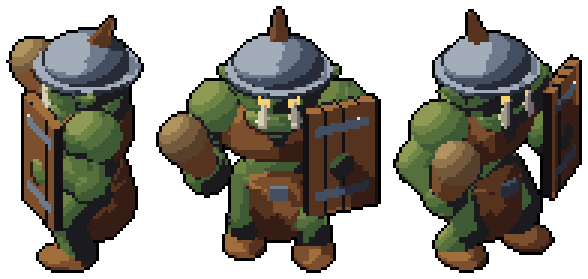
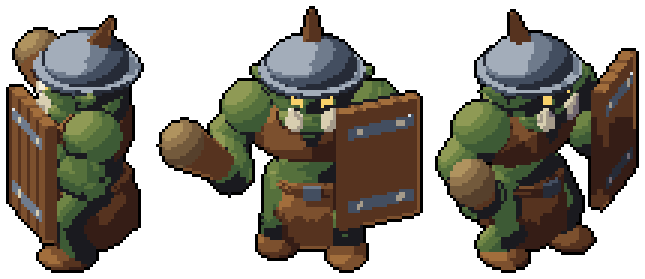
Art B2: review page, progress page, art log for the all-monster pass and seven new monsters
Claude-Session: https://claude.ai/code/session_01QbDoFLJr5rX34eWgCEDPgG

diff --git a/diablo-clone/art/review/b2-passes/index.html b/diablo-clone/art/review/b2-passes/index.html
@@ -1,0 +1,86 @@
+<title>Monster Round B2</title>
+<meta name="claude:viewport-fit-sides" content="cover">
+<link rel="stylesheet" href="https://fonts.googleapis.com/css2?family=Pixelify+Sans:wght@500;700&family=IBM+Plex+Sans:wght@400;600&family=IBM+Plex+Mono:wght@400&display=swap">
+<style>
+/* one dark dungeon look to match the game; each monster: concept + note, then a before/after strip that scrolls sideways on phones */
+:root { --bg:#17120f; --panel:#211a16; --ink:#ece2cf; --dim:#a8987f; --rule:#3a2f27; --ember:#e8902f;
+  --display:'Pixelify Sans','Courier New',monospace; --body:'IBM Plex Sans',system-ui,sans-serif; --mono:'IBM Plex Mono',ui-monospace,monospace; color-scheme: dark; }
+body { background:var(--bg); color:var(--ink); font-family:var(--body); line-height:1.55; margin:0; }
+.wrap { max-width:1180px; margin:0 auto; padding-block:28px 64px; padding-left:max(16px,env(safe-area-inset-left,0px)); padding-right:max(16px,env(safe-area-inset-right,0px)); display:grid; gap:34px; }
+h1 { font-family:var(--display); font-weight:700; font-size:clamp(28px,5vw,44px); line-height:1.1; margin:0; text-wrap:balance; }
+h1 em { font-style:normal; color:var(--ember); }
+.lede { max-width:68ch; color:var(--dim); margin:10px 0 0; } .lede b { color:var(--ink); font-weight:600; }
+.grp { font-family:var(--display); font-size:24px; color:var(--ember); margin:18px 0 0; letter-spacing:.03em; }
+h3 { font-family:var(--display); font-weight:700; font-size:22px; margin:0; }
+section { display:grid; gap:12px; border-top:1px solid var(--rule); padding-top:22px; }
+.head { display:flex; flex-wrap:wrap; align-items:baseline; gap:6px 14px; }
+.tag { font-family:var(--mono); font-size:12px; color:var(--dim); }
+.row { display:grid; grid-template-columns:minmax(0,220px) minmax(0,1fr); gap:18px; align-items:start; }
+@media (max-width:640px) { .row { grid-template-columns:minmax(0,1fr); } .concept { max-width:220px; } }
+.concept { margin:0; background:var(--panel); border:1px solid var(--rule); }
+.concept img { display:block; width:100%; image-rendering:pixelated; }
+.concept.none { padding:14px 0; }
+figcaption { font-family:var(--mono); font-size:11px; color:var(--dim); padding:6px 8px; }
+.note { margin:0; max-width:66ch; }
+.strip { overflow-x:auto; border:1px solid var(--rule); background:#000; }
+.strip img { display:block; max-width:none; width:auto; height:auto; max-height:520px; image-rendering:pixelated; }
+</style>
+<div class="wrap">
+<header>
+<h1>Another pass on every monster, plus seven new ones <em>B2</em></h1>
+<p class="lede"><b>The Brigand Mastiff is gone</b>, as you asked. All 39 remaining monsters got at least 3 more passes, each judged side by side against the best so far in both left/right orders and kept only if it won both. <b>Seven new monsters</b> were built from your concepts (top of the page); they don't spawn yet. Each strip shows <b>before (top) and after</b>, then the silhouette. Nothing else changed: the player heroes and every monster outside each group render exactly as before.</p>
+</header>
+<h2 class="grp">New monsters</h2>
+<section><div class="head"><h3>Cave Bat</h3><span class="tag">cavebat</span></div><div class="row"><figure class="concept"><img src="concepts/cave_bat.png" alt="Concept: Cave Bat"><figcaption>your concept</figcaption></figure><p class="note">NEW. Hovers with its shadow under it, flaps, climbs then dives with claws out, falls flat on death.</p></div><div class="strip"><img loading="lazy" src="new/final-cavebat.png" alt="Cave Bat: before and after"></div></section>
+<section><div class="head"><h3>Bog Toad</h3><span class="tag">bogtoad</span></div><div class="row"><figure class="concept"><img src="concepts/bog_toad.png" alt="Concept: Bog Toad"><figcaption>your concept</figcaption></figure><p class="note">NEW. Warty olive body, orange eyes, a throat that pulses at rest; hops on walk, lashes its tongue, rolls onto its back on death. Throat is ochre (no pale green in the palette).</p></div><div class="strip"><img loading="lazy" src="new/final-bogtoad.png" alt="Bog Toad: before and after"></div></section>
+<section><div class="head"><h3>Restless Dead</h3><span class="tag">restless</span></div><div class="row"><figure class="concept"><img src="concepts/restless_dead.png" alt="Concept: Restless Dead"><figcaption>your concept</figcaption></figure><p class="note">NEW. A shambling corpse in a torn tunic, one arm reaching; drags a foot when it walks, falls forward on death.</p></div><div class="strip"><img loading="lazy" src="new/final-restless.png" alt="Restless Dead: before and after"></div></section>
+<section><div class="head"><h3>Venom Spitter</h3><span class="tag">spitter</span></div><div class="row"><figure class="concept"><img src="concepts/venom_spitter.png" alt="Concept: Venom Spitter"><figcaption>your concept</figcaption></figure><p class="note">NEW. Brown spider with yellow-green venom patches; rears up and spits a green glob (fires the game&#x27;s arrow until a venom shot exists).</p></div><div class="strip"><img loading="lazy" src="spiders/final-spitter.png" alt="Venom Spitter: before and after"></div></section>
+<section><div class="head"><h3>Stoneback Spider</h3><span class="tag">stoneback</span></div><div class="row"><figure class="concept"><img src="concepts/stoneback_spider.png" alt="Concept: Stoneback Spider"><figcaption>your concept</figcaption></figure><p class="note">NEW. Low, heavy, slower; a cracked grey stone shell, orange eyes.</p></div><div class="strip"><img loading="lazy" src="spiders/final-stoneback.png" alt="Stoneback Spider: before and after"></div></section>
+<section><div class="head"><h3>Brood Guard</h3><span class="tag">broodguard</span></div><div class="row"><figure class="concept"><img src="concepts/brood_guard.png" alt="Concept: Brood Guard"><figcaption>your concept</figcaption></figure><p class="note">NEW. Tall on stilt legs with red knees, three red stripes, abdomen cocked up behind.</p></div><div class="strip"><img loading="lazy" src="spiders/final-broodguard.png" alt="Brood Guard: before and after"></div></section>
+<section><div class="head"><h3>Bandit Crossbowman</h3><span class="tag">xbowman</span></div><div class="row"><figure class="concept"><img src="concepts/bandit_crossbowman.png" alt="Concept: Bandit Crossbowman"><figcaption>your concept</figcaption></figure><p class="note">NEW. Blue-steel cap, laced leather jerkin, crossbow shouldered and aimed level when it shoots, bolt case at the hip. Shown beside the Brigand.</p></div><div class="strip"><img loading="lazy" src="misc/final-xbowman.png" alt="Bandit Crossbowman: before and after"></div></section>
+<h2 class="grp">Skeletons</h2>
+<section><div class="head"><h3>Skeleton</h3><span class="tag">skeleton</span></div><div class="row"><figure class="concept"><img src="concepts/skeleton.png" alt="Concept: Skeleton"><figcaption>your concept</figcaption></figure><p class="note">Blue-steel pauldron with an orange boss, round red skull shield, long torn red loincloth, red sash; ribs show.</p></div><div class="strip"><img loading="lazy" src="skeletons/final-skeleton.png" alt="Skeleton: before and after"></div></section>
+<section><div class="head"><h3>Crypt Spearman</h3><span class="tag">spearman</span></div><div class="row"><figure class="concept"><img src="concepts/crypt_spearman.png" alt="Concept: Crypt Spearman"><figcaption>your concept</figcaption></figure><p class="note">Spear held across the body so the head shows from the front; longer navy loincloth.</p></div><div class="strip"><img loading="lazy" src="skeletons/final-spearman.png" alt="Crypt Spearman: before and after"></div></section>
+<section><div class="head"><h3>Bone Axeman</h3><span class="tag">axeman</span></div><div class="row"><figure class="concept"><img src="concepts/bone_axeman.png" alt="Concept: Bone Axeman"><figcaption>your concept</figcaption></figure><p class="note">Axe held diagonally, head at shoulder height; long red cloth front and back.</p></div><div class="strip"><img loading="lazy" src="skeletons/final-axeman.png" alt="Bone Axeman: before and after"></div></section>
+<section><div class="head"><h3>Grave Crossbowman</h3><span class="tag">gravebow</span></div><div class="row"><figure class="concept"><img src="concepts/grave_crossbowman.png" alt="Concept: Grave Crossbowman"><figcaption>your concept</figcaption></figure><p class="note">Bigger leather pauldron with a gold rivet; bolt quiver low on the left thigh.</p></div><div class="strip"><img loading="lazy" src="skeletons/final-gravebow.png" alt="Grave Crossbowman: before and after"></div></section>
+<section><div class="head"><h3>Tomb Guard</h3><span class="tag">tombguard</span></div><div class="row"><figure class="concept"><img src="concepts/tomb_guard.png" alt="Concept: Tomb Guard"><figcaption>your concept</figcaption></figure><p class="note">Thick rolled helm brim, raised so the eyes show; red cloth front and back; bevel on the shield.</p></div><div class="strip"><img loading="lazy" src="skeletons/final-tombguard.png" alt="Tomb Guard: before and after"></div></section>
+<section><div class="head"><h3>Skeleton Archer</h3><span class="tag">archer</span></div><div class="row"><figure class="concept none"><figcaption>no concept: judged on the rubric</figcaption></figure><p class="note">Longer recurved bow held out from the body, back quiver with red fletching, bracer.</p></div><div class="strip"><img loading="lazy" src="skeletons/final-archer.png" alt="Skeleton Archer: before and after"></div></section>
+<section><div class="head"><h3>Burning Dead</h3><span class="tag">burning</span></div><div class="row"><figure class="concept"><img src="concepts/burning_dead.png" alt="Concept: Burning Dead"><figcaption>your concept</figcaption></figure><p class="note">Taller helm flared at the back; bigger flames with red tips.</p></div><div class="strip"><img loading="lazy" src="skeletons/final-burning.png" alt="Burning Dead: before and after"></div></section>
+<section><div class="head"><h3>The Lich</h3><span class="tag">lich</span></div><div class="row"><figure class="concept none"><figcaption>no concept: judged on the rubric</figcaption></figure><p class="note">Bell-shaped robe with ragged tails; dark hood behind the skull.</p></div><div class="strip"><img loading="lazy" src="skeletons/final-lich.png" alt="The Lich: before and after"></div></section>
+<section><div class="head"><h3>Skeleton King</h3><span class="tag">skelking</span></div><div class="row"><figure class="concept none"><figcaption>no concept: judged on the rubric</figcaption></figure><p class="note">Draped red cloak with gold hem and fur collar, broad gold-hilted greatsword; the cloak lies flat in death.</p></div><div class="strip"><img loading="lazy" src="skeletons/final-skelking.png" alt="Skeleton King: before and after"></div></section>
+<h2 class="grp">Imps and goblins</h2>
+<section><div class="head"><h3>Fallen One</h3><span class="tag">fallen</span></div><div class="row"><figure class="concept"><img src="concepts/fallen_spearling.png" alt="Concept: Fallen One"><figcaption>your concept</figcaption></figure><p class="note">Purple bat ears swept back, pale hooves, broader loincloth, bigger head and eyes.</p></div><div class="strip"><img loading="lazy" src="fallen/final-fallen.png" alt="Fallen One: before and after"></div></section>
+<section><div class="head"><h3>Fallen Knifer</h3><span class="tag">knifer</span></div><div class="row"><figure class="concept"><img src="concepts/fallen_knifer.png" alt="Concept: Fallen Knifer"><figcaption>your concept</figcaption></figure><p class="note">Same ear, hoof and head changes.</p></div><div class="strip"><img loading="lazy" src="fallen/final-knifer.png" alt="Fallen Knifer: before and after"></div></section>
+<section><div class="head"><h3>Fallen Slinger</h3><span class="tag">slinger</span></div><div class="row"><figure class="concept"><img src="concepts/fallen_slinger.png" alt="Concept: Fallen Slinger"><figcaption>your concept</figcaption></figure><p class="note">Same ear, hoof and head changes.</p></div><div class="strip"><img loading="lazy" src="fallen/final-slinger.png" alt="Fallen Slinger: before and after"></div></section>
+<section><div class="head"><h3>Fallen Shaman</h3><span class="tag">shaman</span></div><div class="row"><figure class="concept"><img src="concepts/ember_acolyte.png" alt="Concept: Fallen Shaman"><figcaption>your concept</figcaption></figure><p class="note">Hood set back so more of the red face shows; pale hooves.</p></div><div class="strip"><img loading="lazy" src="fallen/final-shaman.png" alt="Fallen Shaman: before and after"></div></section>
+<section><div class="head"><h3>Goblin</h3><span class="tag">goblin</span></div><div class="row"><figure class="concept"><img src="concepts/goblin.png" alt="Concept: Goblin"><figcaption>your concept</figcaption></figure><p class="note">Leaner, open leather vest, steel dagger instead of the spear, long nose, rounder cap, ears swept back.</p></div><div class="strip"><img loading="lazy" src="fallen/final-goblin.png" alt="Goblin: before and after"></div></section>
+<section><div class="head"><h3>Goblin Chieftain</h3><span class="tag">gchief</span></div><div class="row"><figure class="concept none"><figcaption>no concept: judged on the rubric</figcaption></figure><p class="note">Narrower crown so the face shows, fang necklace, vest.</p></div><div class="strip"><img loading="lazy" src="fallen/final-gchief.png" alt="Goblin Chieftain: before and after"></div></section>
+<section><div class="head"><h3>Goblin Shaman</h3><span class="tag">gshaman</span></div><div class="row"><figure class="concept none"><figcaption>no concept: judged on the rubric</figcaption></figure><p class="note">Forked staff around a bigger orb, leather cap.</p></div><div class="strip"><img loading="lazy" src="fallen/final-gshaman.png" alt="Goblin Shaman: before and after"></div></section>
+<section><div class="head"><h3>Treasure Goblin</h3><span class="tag">treasure</span></div><div class="row"><figure class="concept none"><figcaption>no concept: judged on the rubric</figcaption></figure><p class="note">Fatter sack tied at the neck, bigger gold heap.</p></div><div class="strip"><img loading="lazy" src="fallen/final-treasure.png" alt="Treasure Goblin: before and after"></div></section>
+<section><div class="head"><h3>Digger</h3><span class="tag">digger</span></div><div class="row"><figure class="concept none"><figcaption>no concept: judged on the rubric</figcaption></figure><p class="note">Pick resting on the shoulder, light steel cap with a candle, pale snout.</p></div><div class="strip"><img loading="lazy" src="fallen/final-digger.png" alt="Digger: before and after"></div></section>
+<h2 class="grp">Hounds</h2>
+<section><div class="head"><h3>Wolf</h3><span class="tag">wolf</span></div><div class="row"><figure class="concept"><img src="concepts/grey_pack_hunter.png" alt="Concept: Wolf"><figcaption>your concept</figcaption></figure><p class="note">Bigger pointed ears, black nose, pale cheek, bigger head.</p></div><div class="strip"><img loading="lazy" src="hounds/final-wolf.png" alt="Wolf: before and after"></div></section>
+<section><div class="head"><h3>The Alpha</h3><span class="tag">alpha</span></div><div class="row"><figure class="concept none"><figcaption>no concept: judged on the rubric</figcaption></figure><p class="note">Darker coat, silver crest of raised fur, bushy pale-tipped tail.</p></div><div class="strip"><img loading="lazy" src="hounds/final-alpha.png" alt="The Alpha: before and after"></div></section>
+<section><div class="head"><h3>Bone Hound</h3><span class="tag">hound</span></div><div class="row"><figure class="concept"><img src="concepts/bone_hound.png" alt="Concept: Bone Hound"><figcaption>your concept</figcaption></figure><p class="note">Wide crescent horns sweeping back, bigger skull, cream toes, black nose.</p></div><div class="strip"><img loading="lazy" src="hounds/final-hound.png" alt="Bone Hound: before and after"></div></section>
+<section><div class="head"><h3>Hell Hound</h3><span class="tag">ghoulhound</span></div><div class="row"><figure class="concept"><img src="concepts/ember_hound.png" alt="Concept: Hell Hound"><figcaption>your concept</figcaption></figure><p class="note">Same horn and head changes as the Bone Hound.</p></div><div class="strip"><img loading="lazy" src="hounds/final-ghoulhound.png" alt="Hell Hound: before and after"></div></section>
+<section><div class="head"><h3>Dire Bear</h3><span class="tag">bear</span></div><div class="row"><figure class="concept none"><figcaption>no concept: judged on the rubric</figcaption></figure><p class="note">Shoulder hump, shorter muzzle, thicker legs, round ears, dark lower legs.</p></div><div class="strip"><img loading="lazy" src="hounds/final-bear.png" alt="Dire Bear: before and after"></div></section>
+<section><div class="head"><h3>Boar</h3><span class="tag">boar</span></div><div class="row"><figure class="concept none"><figcaption>no concept: judged on the rubric</figcaption></figure><p class="note">Barrel body, spiky bristle crest, flat snout, big upturned tusks, dark legs.</p></div><div class="strip"><img loading="lazy" src="hounds/final-boar.png" alt="Boar: before and after"></div></section>
+<h2 class="grp">Ogres and treant</h2>
+<section><div class="head"><h3>Ogre Clubber</h3><span class="tag">oclubber</span></div><div class="row"><figure class="concept"><img src="concepts/ogre_clubber.png" alt="Concept: Ogre Clubber"><figcaption>your concept</figcaption></figure><p class="note">Short splayed tusks, arms out from the body, club angled up like a log, belt band, torn skirt.</p></div><div class="strip"><img loading="lazy" src="ogres-treant/final-oclubber.png" alt="Ogre Clubber: before and after"></div></section>
+<section><div class="head"><h3>Ogre Rockthrower</h3><span class="tag">orockthrower</span></div><div class="row"><figure class="concept"><img src="concepts/ogre_rockthrower.png" alt="Concept: Ogre Rockthrower"><figcaption>your concept</figcaption></figure><p class="note">Rock held clear of the head, bigger stone bag, belt band.</p></div><div class="strip"><img loading="lazy" src="ogres-treant/final-orockthrower.png" alt="Ogre Rockthrower: before and after"></div></section>
+<section><div class="head"><h3>Ogre Shieldbearer</h3><span class="tag">oshield</span></div><div class="row"><figure class="concept"><img src="concepts/ogre_shieldbearer.png" alt="Concept: Ogre Shieldbearer"><figcaption>your concept</figcaption></figure><p class="note">Bigger four-plank shield with riveted bands, moved off the fist.</p></div><div class="strip"><img loading="lazy" src="ogres-treant/final-oshield.png" alt="Ogre Shieldbearer: before and after"></div></section>
+<section><div class="head"><h3>Ogre Enforcer</h3><span class="tag">oenforcer</span></div><div class="row"><figure class="concept"><img src="concepts/ogre_enforcer.png" alt="Concept: Ogre Enforcer"><figcaption>your concept</figcaption></figure><p class="note">Steel cleaver that keeps its color turned away, belt and skirt, shoulder blades.</p></div><div class="strip"><img loading="lazy" src="ogres-treant/final-oenforcer.png" alt="Ogre Enforcer: before and after"></div></section>
+<section><div class="head"><h3>Ogre Warlord</h3><span class="tag">warlord</span></div><div class="row"><figure class="concept none"><figcaption>no concept: judged on the rubric</figcaption></figure><p class="note">Crude gold crown, pale steel club spikes, leather skirt filling the gap between the legs.</p></div><div class="strip"><img loading="lazy" src="ogres-treant/final-warlord.png" alt="Ogre Warlord: before and after"></div></section>
+<section><div class="head"><h3>Treant Elder</h3><span class="tag">treant</span></div><div class="row"><figure class="concept"><img src="concepts/treant_elder.png" alt="Concept: Treant Elder"><figcaption>your concept</figcaption></figure><p class="note">Crown of four lobes lifted clear of the face, bigger eyes, longer arms.</p></div><div class="strip"><img loading="lazy" src="ogres-treant/final-treant.png" alt="Treant Elder: before and after"></div></section>
+<h2 class="grp">Spiders</h2>
+<section><div class="head"><h3>Cave Spider</h3><span class="tag">spider</span></div><div class="row"><figure class="concept"><img src="concepts/cave_skitter.png" alt="Concept: Cave Spider"><figcaption>your concept</figcaption></figure><p class="note">Pale spots instead of the skull mark, white fangs, bigger red eyes, red feet, rounder raised abdomen.</p></div><div class="strip"><img loading="lazy" src="spiders/final-spider.png" alt="Cave Spider: before and after"></div></section>
+<section><div class="head"><h3>Broodmother</h3><span class="tag">broodmother</span></div><div class="row"><figure class="concept none"><figcaption>no concept: judged on the rubric</figcaption></figure><p class="note">Small clutch of egg sacs at the back, red spur on every knee.</p></div><div class="strip"><img loading="lazy" src="spiders/final-broodmother.png" alt="Broodmother: before and after"></div></section>
+<h2 class="grp">Mushrooms, slimes, wraith, bandits</h2>
+<section><div class="head"><h3>Shroomling</h3><span class="tag">shroom</span></div><div class="row"><figure class="concept none"><figcaption>no concept: judged on the rubric</figcaption></figure><p class="note">Broad spotted dome over a pale gill skirt, tipped back so the face and eyes show.</p></div><div class="strip"><img loading="lazy" src="misc/final-shroom.png" alt="Shroomling: before and after"></div></section>
+<section><div class="head"><h3>Sporecap</h3><span class="tag">sporecap</span></div><div class="row"><figure class="concept none"><figcaption>no concept: judged on the rubric</figcaption></figure><p class="note">Same cap and face as the Shroomling.</p></div><div class="strip"><img loading="lazy" src="misc/final-sporecap.png" alt="Sporecap: before and after"></div></section>
+<section><div class="head"><h3>Slime</h3><span class="tag">slime</span></div><div class="row"><figure class="concept none"><figcaption>no concept: judged on the rubric</figcaption></figure><p class="note">Gumdrop shape on a puddle skirt, big eyes, a mouth that opens on the bite.</p></div><div class="strip"><img loading="lazy" src="misc/final-slime.png" alt="Slime: before and after"></div></section>
+<section><div class="head"><h3>Big Blue Slime</h3><span class="tag">blueslime</span></div><div class="row"><figure class="concept none"><figcaption>no concept: judged on the rubric</figcaption></figure><p class="note">Same as the Slime.</p></div><div class="strip"><img loading="lazy" src="misc/final-blueslime.png" alt="Big Blue Slime: before and after"></div></section>
+<section><div class="head"><h3>Wraith</h3><span class="tag">wraith</span></div><div class="row"><figure class="concept none"><figcaption>no concept: judged on the rubric</figcaption></figure><p class="note">Seven-point ragged hem flaring out, bell sleeves, bony clawed hands, short hood tip, bigger eyes.</p></div><div class="strip"><img loading="lazy" src="misc/final-wraith.png" alt="Wraith: before and after"></div></section>
+<section><div class="head"><h3>Brigand</h3><span class="tag">brigand</span></div><div class="row"><figure class="concept none"><figcaption>no concept: judged on the rubric</figcaption></figure><p class="note">Dark hood with a red scarf mask, baldric with a brass buckle, long knife in the free hand.</p></div><div class="strip"><img loading="lazy" src="misc/final-brigand.png" alt="Brigand: before and after"></div></section>
+<section><div class="head"><h3>Bandit Chief</h3><span class="tag">banditchief</span></div><div class="row"><figure class="concept none"><figcaption>no concept: judged on the rubric</figcaption></figure><p class="note">Grey fur collar, double-bladed battle axe, blackened spiked pauldrons.</p></div><div class="strip"><img loading="lazy" src="misc/final-banditchief.png" alt="Bandit Chief: before and after"></div></section>
+</div>

diff --git a/diablo-clone/art/progress/index.html b/diablo-clone/art/progress/index.html
@@ -69,8 +69,8 @@ const LABEL = { done: 'Done', todo: 'To refine', new: 'Not built yet' };
 // s: status; cur: game monster id drawn now (or the nearest relative for a new one); note: one line
 const SHEETS = [
   ['Existing monsters: refinement targets', [
-    { n: 'Skeleton', c: 'skeleton', s: 'todo', cur: 'skeleton', note: 'Close already: round pauldron, skull shield, red loincloth.' },
-    { n: 'Goblin', c: 'goblin', s: 'todo', cur: 'goblin', note: 'Close: concept is leaner, with a dagger and a leather vest.' },
+    { n: 'Skeleton', c: 'skeleton', s: 'done', cur: 'skeleton', note: 'B2: steel pauldron, red skull shield, long torn loincloth.' },
+    { n: 'Goblin', c: 'goblin', s: 'done', cur: 'goblin', note: 'B2: leaner, leather vest, dagger, long nose.' },
     { n: 'Burning Dead', c: 'burning_dead', s: 'done', cur: 'burning', note: 'A1: open kettle helm, flames, ember ribs, steel blade.' },
     { n: 'Treant Elder', c: 'treant_elder', s: 'done', cur: 'treant', note: 'A1: root-flared trunk, scowling face, clover crown, claws.' },
   ]],
@@ -81,10 +81,10 @@ const SHEETS = [
     { n: 'Ember Acolyte', c: 'ember_acolyte', s: 'done', cur: 'shaman', note: 'A1: the Fallen Shaman, rebuilt as the acolyte.' },
   ]],
   ['Spiders: cavern brood', [
-    { n: 'Cave Skitter', c: 'cave_skitter', s: 'todo', cur: 'spider', note: 'The Cave Spider; already close.' },
-    { n: 'Venom Spitter', c: 'venom_spitter', s: 'new', cur: null, note: 'New: olive body with pale spots, green eyes.' },
-    { n: 'Stoneback Spider', c: 'stoneback_spider', s: 'new', cur: null, note: 'New: a grey stone shell over its back.' },
-    { n: 'Brood Guard', c: 'brood_guard', s: 'new', cur: 'broodmother', note: 'New: a long-legged guard; the Broodmother is the nearest.' },
+    { n: 'Cave Skitter', c: 'cave_skitter', s: 'done', cur: 'spider', note: 'B2: the Cave Spider, with pale spots, white fangs, red feet.' },
+    { n: 'Venom Spitter', c: 'venom_spitter', s: 'done', cur: 'spitter', note: 'B2: built; rears up and spits. Not spawning yet.' },
+    { n: 'Stoneback Spider', c: 'stoneback_spider', s: 'done', cur: 'stoneback', note: 'B2: built; heavy and slow. Not spawning yet.' },
+    { n: 'Brood Guard', c: 'brood_guard', s: 'done', cur: 'broodguard', note: 'B2: built on stilt legs. Not spawning yet.' },
   ]],
   ['Hounds: pack variants', [
     { n: 'Grey Pack Hunter', c: 'grey_pack_hunter', s: 'done', cur: 'wolf', note: 'A3: the Wolf, with a pale muzzle (it was already close).' },
@@ -104,10 +104,10 @@ const SHEETS = [
     { n: 'Ogre Enforcer', c: 'ogre_enforcer', s: 'done', cur: 'oenforcer', note: 'A3: built from your front/back pair. Not spawning yet.' },
   ]],
   ['Bestiary additions', [
-    { n: 'Restless Dead', c: 'restless_dead', s: 'new', cur: null, note: 'New: a shambling zombie in rags.' },
-    { n: 'Cave Bat', c: 'cave_bat', s: 'new', cur: null, note: 'New: a flying bat.' },
-    { n: 'Bandit Crossbowman', c: 'bandit_crossbowman', s: 'new', cur: 'brigand', note: 'New: the Brigand is the nearest relative.' },
-    { n: 'Bog Toad', c: 'bog_toad', s: 'new', cur: null, note: 'New: a big warty toad.' },
+    { n: 'Restless Dead', c: 'restless_dead', s: 'done', cur: 'restless', note: 'B2: built; pale corpse, drags a foot. Not spawning yet.' },
+    { n: 'Cave Bat', c: 'cave_bat', s: 'done', cur: 'cavebat', note: 'B2: built; hovers, dives. Not spawning yet.' },
+    { n: 'Bandit Crossbowman', c: 'bandit_crossbowman', s: 'done', cur: 'xbowman', note: 'B2: built; aims a shouldered crossbow. Not spawning yet.' },
+    { n: 'Bog Toad', c: 'bog_toad', s: 'done', cur: 'bogtoad', note: 'B2: built; hops, tongue lash. Not spawning yet.' },
   ]],
 ];
 const all = SHEETS.flatMap(s => s[1]);

diff --git a/diablo-clone/art/review/b2-passes/page_head.html b/diablo-clone/art/review/b2-passes/page_head.html
@@ -1,0 +1,34 @@
+<title>Monster Round B2</title>
+<meta name="claude:viewport-fit-sides" content="cover">
+<link rel="stylesheet" href="https://fonts.googleapis.com/css2?family=Pixelify+Sans:wght@500;700&family=IBM+Plex+Sans:wght@400;600&family=IBM+Plex+Mono:wght@400&display=swap">
+<style>
+/* one dark dungeon look to match the game; each monster: concept + note, then a before/after strip that scrolls sideways on phones */
+:root { --bg:#17120f; --panel:#211a16; --ink:#ece2cf; --dim:#a8987f; --rule:#3a2f27; --ember:#e8902f;
+  --display:'Pixelify Sans','Courier New',monospace; --body:'IBM Plex Sans',system-ui,sans-serif; --mono:'IBM Plex Mono',ui-monospace,monospace; color-scheme: dark; }
+body { background:var(--bg); color:var(--ink); font-family:var(--body); line-height:1.55; margin:0; }
+.wrap { max-width:1180px; margin:0 auto; padding-block:28px 64px; padding-left:max(16px,env(safe-area-inset-left,0px)); padding-right:max(16px,env(safe-area-inset-right,0px)); display:grid; gap:34px; }
+h1 { font-family:var(--display); font-weight:700; font-size:clamp(28px,5vw,44px); line-height:1.1; margin:0; text-wrap:balance; }
+h1 em { font-style:normal; color:var(--ember); }
+.lede { max-width:68ch; color:var(--dim); margin:10px 0 0; } .lede b { color:var(--ink); font-weight:600; }
+.grp { font-family:var(--display); font-size:24px; color:var(--ember); margin:18px 0 0; letter-spacing:.03em; }
+h3 { font-family:var(--display); font-weight:700; font-size:22px; margin:0; }
+section { display:grid; gap:12px; border-top:1px solid var(--rule); padding-top:22px; }
+.head { display:flex; flex-wrap:wrap; align-items:baseline; gap:6px 14px; }
+.tag { font-family:var(--mono); font-size:12px; color:var(--dim); }
+.row { display:grid; grid-template-columns:minmax(0,220px) minmax(0,1fr); gap:18px; align-items:start; }
+@media (max-width:640px) { .row { grid-template-columns:minmax(0,1fr); } .concept { max-width:220px; } }
+.concept { margin:0; background:var(--panel); border:1px solid var(--rule); }
+.concept img { display:block; width:100%; image-rendering:pixelated; }
+.concept.none { padding:14px 0; }
+figcaption { font-family:var(--mono); font-size:11px; color:var(--dim); padding:6px 8px; }
+.note { margin:0; max-width:66ch; }
+.strip { overflow-x:auto; border:1px solid var(--rule); background:#000; }
+.strip img { display:block; max-width:none; width:auto; height:auto; max-height:520px; image-rendering:pixelated; }
+</style>
+<div class="wrap">
+<header>
+<h1>Another pass on every monster, plus seven new ones <em>B2</em></h1>
+<p class="lede"><b>The Brigand Mastiff is gone</b>, as you asked. All 39 remaining monsters got at least 3 more passes, each judged side by side against the best so far in both left/right orders and kept only if it won both. <b>Seven new monsters</b> were built from your concepts (top of the page); they don't spawn yet. Each strip shows <b>before (top) and after</b>, then the silhouette. Nothing else changed: the player heroes and every monster outside each group render exactly as before.</p>
+</header>
+{{BODY}}
+</div>

diff --git a/diablo-clone/art/review/b2-passes/build_page.py b/diablo-clone/art/review/b2-passes/build_page.py
@@ -1,0 +1,80 @@
+# Builds index.html for the B2 review page (run from this folder).
+import html
+G = [
+ ("New monsters", [
+  ("cavebat","Cave Bat","cave_bat","NEW. Hovers with its shadow under it, flaps, climbs then dives with claws out, falls flat on death."),
+  ("bogtoad","Bog Toad","bog_toad","NEW. Warty olive body, orange eyes, a throat that pulses at rest; hops on walk, lashes its tongue, rolls onto its back on death. Throat is ochre (no pale green in the palette)."),
+  ("restless","Restless Dead","restless_dead","NEW. A shambling corpse in a torn tunic, one arm reaching; drags a foot when it walks, falls forward on death."),
+  ("spitter","Venom Spitter","venom_spitter","NEW. Brown spider with yellow-green venom patches; rears up and spits a green glob (fires the game's arrow until a venom shot exists)."),
+  ("stoneback","Stoneback Spider","stoneback_spider","NEW. Low, heavy, slower; a cracked grey stone shell, orange eyes."),
+  ("broodguard","Brood Guard","brood_guard","NEW. Tall on stilt legs with red knees, three red stripes, abdomen cocked up behind."),
+  ("xbowman","Bandit Crossbowman","bandit_crossbowman","NEW. Blue-steel cap, laced leather jerkin, crossbow shouldered and aimed level when it shoots, bolt case at the hip. Shown beside the Brigand."),
+ ]),
+ ("Skeletons", [
+  ("skeleton","Skeleton","skeleton","Blue-steel pauldron with an orange boss, round red skull shield, long torn red loincloth, red sash; ribs show."),
+  ("spearman","Crypt Spearman","crypt_spearman","Spear held across the body so the head shows from the front; longer navy loincloth."),
+  ("axeman","Bone Axeman","bone_axeman","Axe held diagonally, head at shoulder height; long red cloth front and back."),
+  ("gravebow","Grave Crossbowman","grave_crossbowman","Bigger leather pauldron with a gold rivet; bolt quiver low on the left thigh."),
+  ("tombguard","Tomb Guard","tomb_guard","Thick rolled helm brim, raised so the eyes show; red cloth front and back; bevel on the shield."),
+  ("archer","Skeleton Archer",None,"Longer recurved bow held out from the body, back quiver with red fletching, bracer."),
+  ("burning","Burning Dead","burning_dead","Taller helm flared at the back; bigger flames with red tips."),
+  ("lich","The Lich",None,"Bell-shaped robe with ragged tails; dark hood behind the skull."),
+  ("skelking","Skeleton King",None,"Draped red cloak with gold hem and fur collar, broad gold-hilted greatsword; the cloak lies flat in death."),
+ ]),
+ ("Imps and goblins", [
+  ("fallen","Fallen One","fallen_spearling","Purple bat ears swept back, pale hooves, broader loincloth, bigger head and eyes."),
+  ("knifer","Fallen Knifer","fallen_knifer","Same ear, hoof and head changes."),
+  ("slinger","Fallen Slinger","fallen_slinger","Same ear, hoof and head changes."),
+  ("shaman","Fallen Shaman","ember_acolyte","Hood set back so more of the red face shows; pale hooves."),
+  ("goblin","Goblin","goblin","Leaner, open leather vest, steel dagger instead of the spear, long nose, rounder cap, ears swept back."),
+  ("gchief","Goblin Chieftain",None,"Narrower crown so the face shows, fang necklace, vest."),
+  ("gshaman","Goblin Shaman",None,"Forked staff around a bigger orb, leather cap."),
+  ("treasure","Treasure Goblin",None,"Fatter sack tied at the neck, bigger gold heap."),
+  ("digger","Digger",None,"Pick resting on the shoulder, light steel cap with a candle, pale snout."),
+ ]),
+ ("Hounds", [
+  ("wolf","Wolf","grey_pack_hunter","Bigger pointed ears, black nose, pale cheek, bigger head."),
+  ("alpha","The Alpha",None,"Darker coat, silver crest of raised fur, bushy pale-tipped tail."),
+  ("hound","Bone Hound","bone_hound","Wide crescent horns sweeping back, bigger skull, cream toes, black nose."),
+  ("ghoulhound","Hell Hound","ember_hound","Same horn and head changes as the Bone Hound."),
+  ("bear","Dire Bear",None,"Shoulder hump, shorter muzzle, thicker legs, round ears, dark lower legs."),
+  ("boar","Boar",None,"Barrel body, spiky bristle crest, flat snout, big upturned tusks, dark legs."),
+ ]),
+ ("Ogres and treant", [
+  ("oclubber","Ogre Clubber","ogre_clubber","Short splayed tusks, arms out from the body, club angled up like a log, belt band, torn skirt."),
+  ("orockthrower","Ogre Rockthrower","ogre_rockthrower","Rock held clear of the head, bigger stone bag, belt band."),
+  ("oshield","Ogre Shieldbearer","ogre_shieldbearer","Bigger four-plank shield with riveted bands, moved off the fist."),
+  ("oenforcer","Ogre Enforcer","ogre_enforcer","Steel cleaver that keeps its color turned away, belt and skirt, shoulder blades."),
+  ("warlord","Ogre Warlord",None,"Crude gold crown, pale steel club spikes, leather skirt filling the gap between the legs."),
+  ("treant","Treant Elder","treant_elder","Crown of four lobes lifted clear of the face, bigger eyes, longer arms."),
+ ]),
+ ("Spiders", [
+  ("spider","Cave Spider","cave_skitter","Pale spots instead of the skull mark, white fangs, bigger red eyes, red feet, rounder raised abdomen."),
+  ("broodmother","Broodmother",None,"Small clutch of egg sacs at the back, red spur on every knee."),
+ ]),
+ ("Mushrooms, slimes, wraith, bandits", [
+  ("shroom","Shroomling",None,"Broad spotted dome over a pale gill skirt, tipped back so the face and eyes show."),
+  ("sporecap","Sporecap",None,"Same cap and face as the Shroomling."),
+  ("slime","Slime",None,"Gumdrop shape on a puddle skirt, big eyes, a mouth that opens on the bite."),
+  ("blueslime","Big Blue Slime",None,"Same as the Slime."),
+  ("wraith","Wraith",None,"Seven-point ragged hem flaring out, bell sleeves, bony clawed hands, short hood tip, bigger eyes."),
+  ("brigand","Brigand",None,"Dark hood with a red scarf mask, baldric with a brass buckle, long knife in the free hand."),
+  ("banditchief","Bandit Chief",None,"Grey fur collar, double-bladed battle axe, blackened spiked pauldrons."),
+ ]),
+]
+import os
+slice_of = {}
+for d in os.listdir('.'):
+    if os.path.isdir(d):
+        for f in os.listdir(d):
+            if f.startswith('final-'): slice_of[f[6:-4]] = d
+out = []
+for g, items in G:
+    out.append(f'<h2 class="grp">{html.escape(g)}</h2>')
+    for mid, name, con, note in items:
+        img = f'{slice_of[mid]}/final-{mid}.png'
+        c = f'<figure class="concept"><img src="concepts/{con}.png" alt="Concept: {name}"><figcaption>your concept</figcaption></figure>' if con else '<figure class="concept none"><figcaption>no concept: judged on the rubric</figcaption></figure>'
+        out.append(f'<section><div class="head"><h3>{name}</h3><span class="tag">{mid}</span></div><div class="row">{c}<p class="note">{html.escape(note)}</p></div><div class="strip"><img loading="lazy" src="{img}" alt="{name}: before and after"></div></section>')
+page = open('page_head.html').read().replace('{{BODY}}', '\n'.join(out))
+open('index.html', 'w').write(page)
+print('ok', sum(len(i) for _, i in G))

diff --git a/diablo-clone/art/ART_LOG.md b/diablo-clone/art/ART_LOG.md
@@ -29,9 +29,7 @@ MONSTERS levels / ITEM_BASES (tables in each section below).
 pass on specific pieces (weakest: epic ranger helms at game size, wizard cuffs read as mitts, flanged mace
 looks like a fork from behind, skirts fixed at the hips). Palette gaps (no pink, true navy, indigo, bronze,
 teal): adding cloth ramps needs the user's OK. Not yet done from earlier asks: true BACK views of the A6 sets
-(user would need to give ChatGPT the old concept image itself); remaining monster concepts on the progress
-page (Skeleton, Goblin, Cave Skitter to refine; Venom Spitter, Stoneback, Brood Guard, Restless Dead, Cave
-Bat, Bandit Crossbowman, Bog Toad to build); the main chat should also update `NOTES.md` when it merges.
+(user would need to give ChatGPT the old concept image itself); (B1/B2 done: Mastiff removed, every monster passed again, all concept monsters built; see B2); the main chat should also update `NOTES.md` when it merges.
 
 ## A1: refine three existing monsters to the user's concept sheets (2026-11-04)
 The user's concept sheets ("EXISTING MONSTERS - REFINEMENT TARGETS", "IMPS - FALLEN KIN") asked to
@@ -319,3 +317,43 @@ The user didn't like the Mastiff and asked to remove it from the game. The `mast
 `look.mastiff` branch in `houndRig` are gone (it never spawned: it was `minLevel: 99`). **For the main chat:**
 drop any mastiff item/spawn wiring if you had started it. All 39 remaining monsters render pixel-identical to
 before (artcompare zoom 1, `cmp` equal). Its card is off the progress page.
+
+## B2: another pass on all 39 monsters, and seven new ones (2026-11-04)
+The user asked for another pass on every monster ("even the ones you think are done") and to build the missing ones.
+Seven parallel reviewers (one per family, worktrees reset to 5d022a4), 3+ passes per monster, pairwise judged in both
+orders; merged into `art` (merges 55bc01c .. b2-new round 2). After every merge each family was re-verified
+pixel-identical to its own branch; player heroes hash-identical to before the round (3 classes, all clips).
+Review page: https://claude.ai/artifact/2jxgvecw5Ay861S1hw1g8d (source `art/review/b2-passes/`, `build_page.py`
+regenerates it; every pass image is in the per-family folders). Progress page updated (all concepts now done).
+Test copy republished with this round's `monsters.js`/`actors.js` (new monsters don't spawn there either).
+
+**Passes (look changes only, each behind flags only that monster sets):**
+- Skeletons (`skeletonRig`): skeleton toward its concept (SLATE pauldron, red skull shield, torn loincloth, sash;
+  flag `sk`); spearman spear across the body, navy rag; axeman diagonal axe; gravebow pauldron + thigh quiver;
+  tombguard rolled brim; archer longer bow held out + back quiver; burning taller flared helm; lich bell robe + hood;
+  skelking draped cloak, fur collar, greatsword.
+- Fallen (`fallenRig`): goblin toward its concept (lean, vest, dagger instead of spear, nose, cap; flags `gob*`,
+  `FALLEN_GOB_B`); chieftain, goblin shaman, treasure goblin, digger refined; imps get purple bat ears, pale hooves,
+  bigger heads; shaman hood set back.
+- Hounds (`houndRig`, `look.b2`): wolf, alpha (silver crest), bone/hell hound crescent horns, bear, boar (rebuilt).
+- Ogres (`ogreRig`) and treant: grunt tusks/arms/belts, shield, cleaver, warlord crown; treant crown and eyes.
+- Spiders (`spiderRig`, now table-driven `SPIDER_V`): cave spider toward cave_skitter, broodmother egg sacs, knee spurs.
+- Shroom/sporecap, slime/blueslime, wraith rebuilt shapes and faces. Brigand (hood + scarf mask, helm `bhood`),
+  bandit chief (fur collar, weapon `baxe`, spiked pauldrons); hero-rig changes gated by `look.bandit`.
+
+**For the main chat: new MONSTERS entries (all `minLevel: 99`, placeholder stats; set levels, packs, loot):**
+
+| Id | Name | Family | Notes |
+|---|---|---|---|
+| `cavebat` | CAVE BAT | `bat` (new `batRig`) | hovers, dive attack; `pack: true` |
+| `bogtoad` | BOG TOAD | `toad` (new `toadRig`) | hop walk, tongue-lash swing |
+| `restless` | RESTLESS DEAD | `zombie` (new `zombieRig`) | slow shamble, grab swing |
+| `spitter` | VENOM SPITTER | `spider`, `look.spit` | ranged `'arrow'` until a venom projectile exists (rears up and spits a green glob) |
+| `stoneback` | STONEBACK SPIDER | `spider`, `look.stone` | slow and heavy |
+| `broodguard` | BROOD GUARD | `spider`, `look.guard` | stilt-legged |
+| `xbowman` | BANDIT CROSSBOWMAN | `hero`, `bandit: 'xbow'` | ranged `'arrow'`; crossbow `XBOW.bow_bandit` |
+
+**Known weak spots:** bone/hell hound horns read a little like ears from behind; the Alpha is very dark; ogre backs
+show flat shading bands; enforcer cleaver very pale from the front; gravebow's quiver hidden in the pure front view;
+cave bat membrane shows thin CHITIN highlights; Restless Dead's pale flesh is close to skeleton bone at 1x; bog toad
+throat is ochre (no pale green in the palette); crossbowman's bone prod reads paler than the concept's wood.
